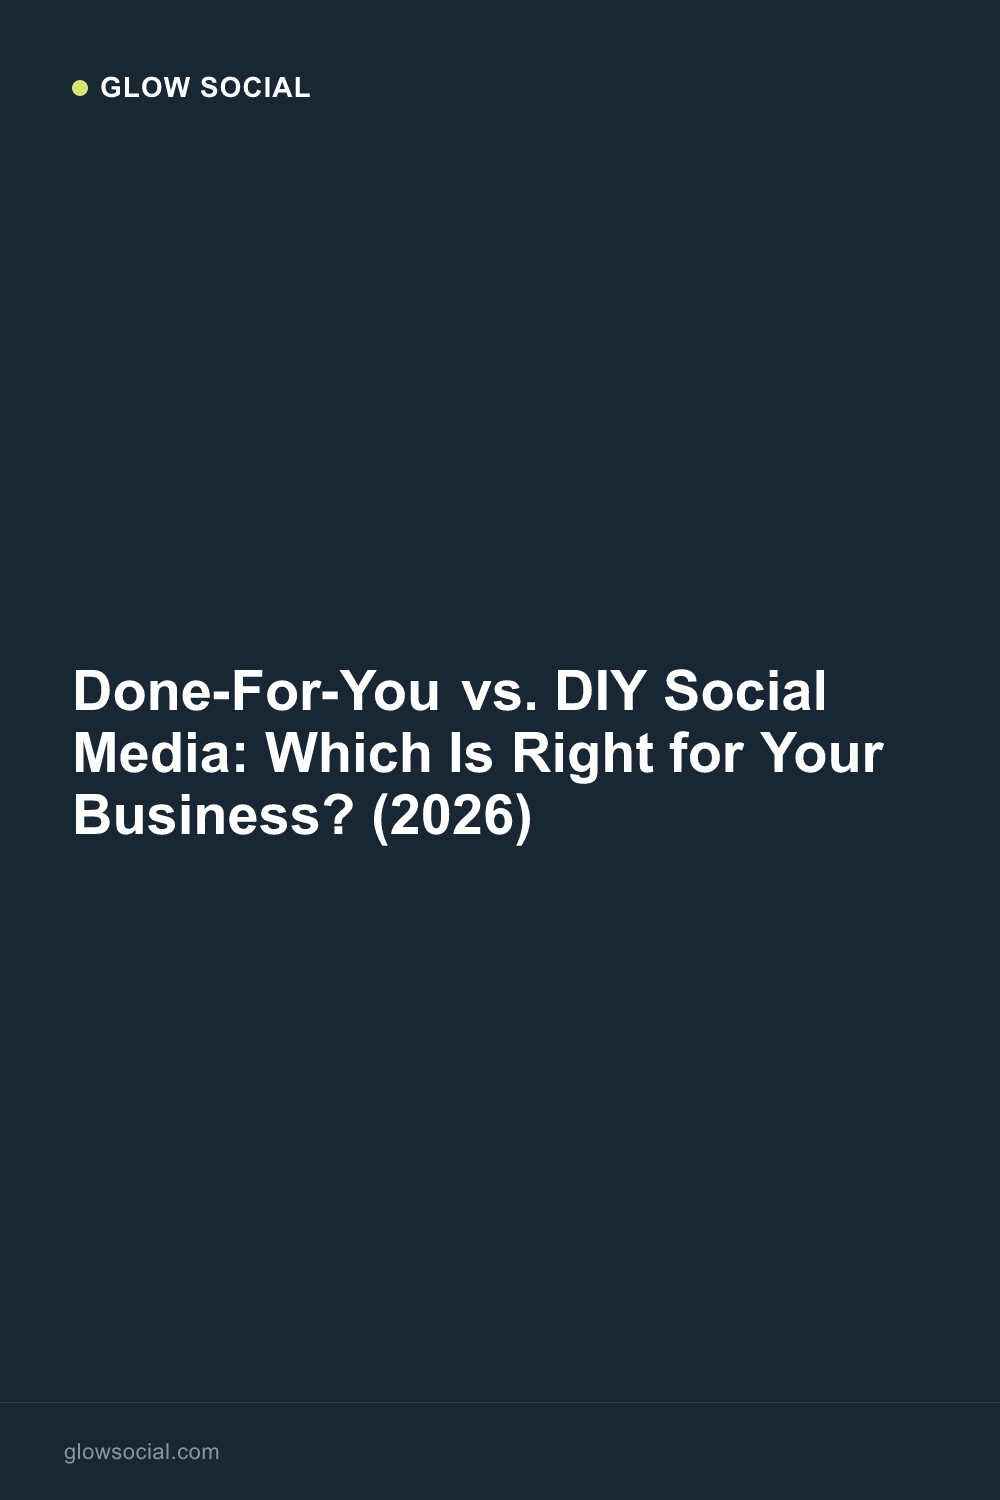
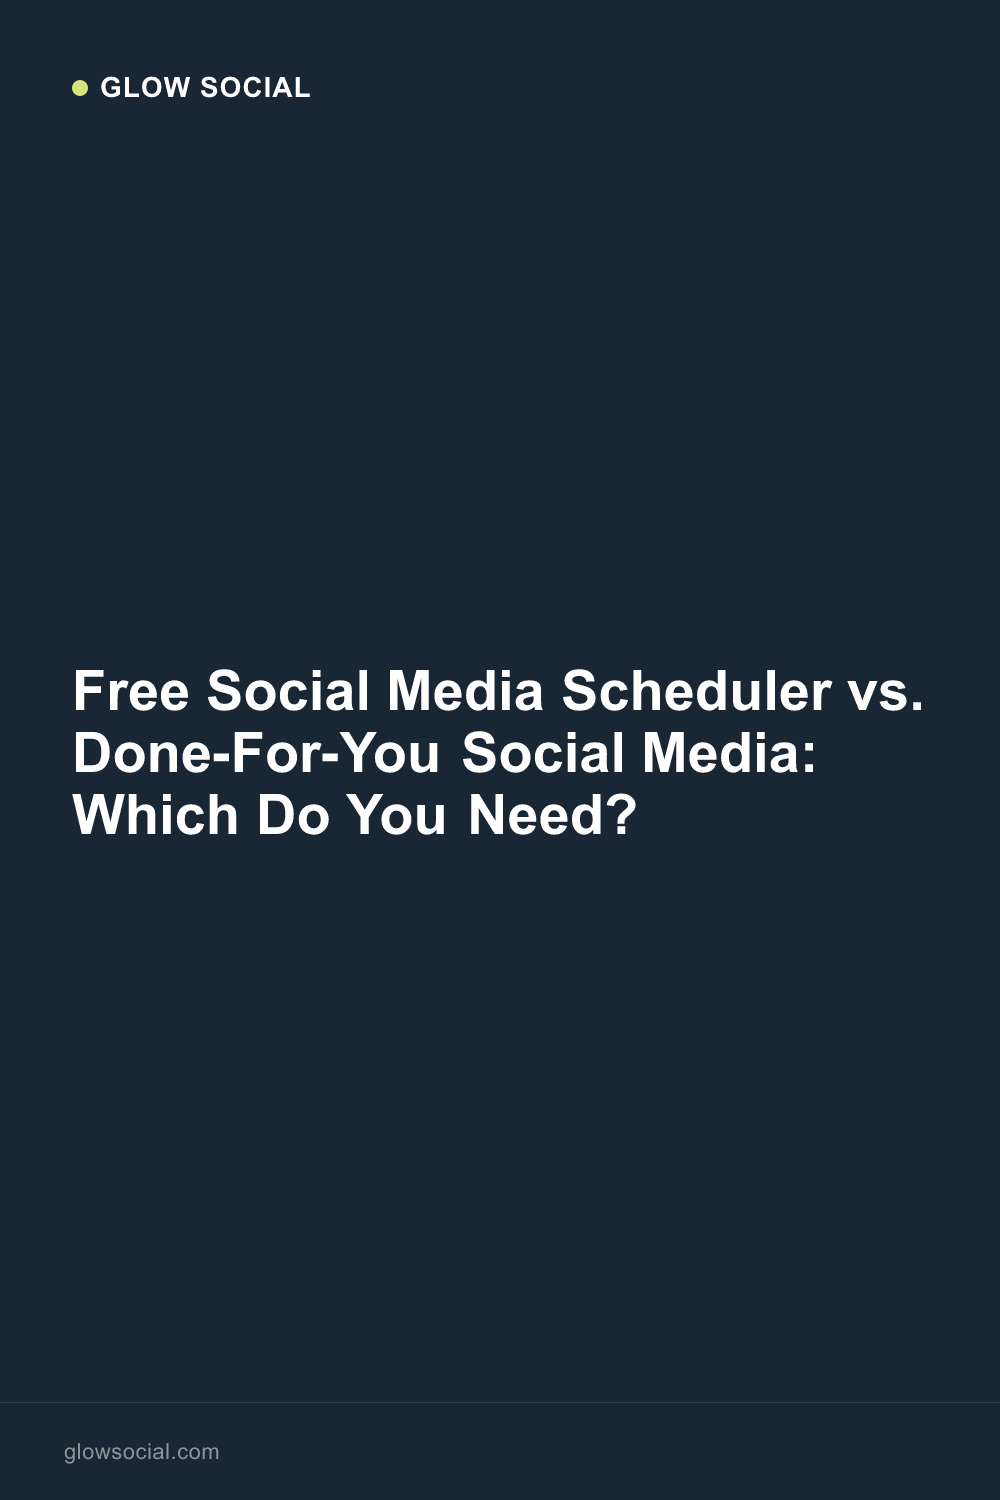
Strengthen free scheduler decision page

Changed region(s): [[0.062, 0.4293, 0.93, 0.5827]]

diff --git a/content/blog/done-for-you-vs-diy-social-media.md b/content/blog/done-for-you-vs-diy-social-media.md
@@ -1,92 +1,148 @@
 ---
-title: "Done-For-You vs. DIY Social Media: Which Is Right for Your Business? (2026)"
-description: "Done-for-you vs DIY social media compared: cost, time, and results. Find out which approach fits your business and budget."
+title: "Free Social Media Scheduler vs. Done-For-You Social Media: Which Do You Need?"
+description: "Free scheduler or done-for-you social media? Compare DIY tools like Buffer and Later with services that create and publish posts for you."
 slug: "done-for-you-vs-diy-social-media"
-date: "2026-01-29"
+date: "2026-05-13"
 faqs:
+  - q: "Should I use a free social media scheduler or a done-for-you service?"
+    a: "Use a free scheduler if you already have posts, images, captions, and a posting plan. Use done-for-you social media if your real problem is creating the content in the first place."
+  - q: "What does a free social media scheduler do?"
+    a: "A free scheduler helps you queue and publish posts you have already created. It does not decide what to post, write your captions, create graphics, or keep your business visible for you."
   - q: "What is done-for-you social media?"
-    a: "Done-for-you social media means a service or software handles content creation, graphic design, and publishing for you. You don't write posts, create images, or manage a content calendar. Glow Social offers done-for-you posting for $99/month."
-  - q: "Is DIY social media worth the time?"
-    a: "For business owners whose time is worth more than $10/hour, DIY social media is typically more expensive than it appears. After factoring in 5-10 hours/month for content creation with tools like Buffer and Canva, the true cost can exceed $300/month when accounting for your time."
-  - q: "How much does done-for-you social media cost?"
-    a: "Done-for-you social media ranges from $99/month for automated AI services like Glow Social to $300-500/month for a freelancer to $1,000-3,000/month or more for an agency."
+    a: "Done-for-you social media means a service handles content ideas, caption writing, graphic creation, scheduling, and publishing for you. Glow Social offers done-for-you posting for $99/month."
+  - q: "Why doesn't Glow Social offer a free plan?"
+    a: "Glow Social does not offer a free plan because the product is custom content output, not empty software access. The value starts when posts are created, designed, and prepared for publishing."
 ---
 
-The choice between DIY social media tools and done-for-you solutions comes down to one question: Do you want to do your own social media or have it handled? DIY tools like Buffer and Hootsuite cost less upfront but require 5-10 hours of your time each month. Done-for-you services handle everything for a flat monthly fee.
+Free social media schedulers and done-for-you social media services solve different problems.
 
-Here's the full comparison.
+A scheduler helps you publish posts you already made. A done-for-you service helps when the blank calendar is the problem.
+
+That distinction matters because a lot of business owners search for a "free social media tool" when what they actually mean is: "I do not have time to keep social media going."
+
+Here is how to tell which problem you have.
+
+## Direct Answer: Free Scheduler vs Done-For-You Social Media
+
+Use a **free social media scheduler** if you already have:
+
+- photos or videos ready
+- captions written
+- a content plan
+- time to batch posts every week or month
+- someone checking comments and messages
+
+Use **done-for-you social media** if you need:
+
+- post ideas generated for you
+- captions written in your business voice
+- graphics created for you
+- posts scheduled and published automatically
+- consistent visibility without managing another tool
+
+The honest version: free schedulers are great when content creation is already handled. They are frustrating when content creation is the bottleneck.
 
 ## Quick Comparison
 
 <table>
-<tr><th>Factor</th><th>DIY (Buffer, Hootsuite, Canva)</th><th>Done-For-You (Glow Social)</th></tr>
-<tr><td>Monthly cost</td><td>$0-50 in tools</td><td>$99</td></tr>
-<tr><td>Your time</td><td>5-10 hours/month</td><td>5 minutes setup</td></tr>
-<tr><td>True cost (time included)</td><td>$250-550/month</td><td>$99/month</td></tr>
-<tr><td>Content creation</td><td>You do it</td><td>Software does it</td></tr>
-<tr><td>Creative control</td><td>Complete</td><td>Limited (AI-generated)</td></tr>
-<tr><td>Consistency</td><td>Depends on you</td><td>Guaranteed</td></tr>
+<tr><th>Question</th><th>Free scheduler</th><th>Done-for-you social media</th></tr>
+<tr><td>Typical cost</td><td>$0-50/month</td><td>$99-500+/month</td></tr>
+<tr><td>Creates post ideas?</td><td>No</td><td>Yes</td></tr>
+<tr><td>Writes captions?</td><td>No</td><td>Yes</td></tr>
+<tr><td>Creates graphics?</td><td>No</td><td>Yes</td></tr>
+<tr><td>Publishes posts?</td><td>Yes, after you load them</td><td>Yes</td></tr>
+<tr><td>Your time</td><td>3-10 hours/month</td><td>Minutes/month</td></tr>
+<tr><td>Best for</td><td>People who already create content</td><td>Busy owners who need consistency handled</td></tr>
 </table>
 
-## The DIY Approach
+## What Free Social Media Schedulers Are Good At
 
-DIY social media means using tools to help you create and schedule your own content:
+Free schedulers are genuinely useful. They are not fake value.
 
-<ul>
-<li>Writing tools (ChatGPT, Jasper, Copy.ai)</li>
-<li>Design tools (Canva, Adobe Express)</li>
-<li>Scheduling tools (Buffer, Hootsuite, Later)</li>
-</ul>
+Tools like Buffer, Later, and Meta Business Suite help you:
 
-<strong>Pros:</strong> Full creative control, lower subscription cost, learn marketing skills.
+- queue posts in advance
+- publish to multiple platforms
+- avoid logging in every day
+- keep a simple calendar organized
+- batch content when you already have it
 
-<strong>Cons:</strong> Requires 5-10 hours/month, consistency depends entirely on you, multiple tools to manage.
+If you enjoy making social media content, start there. For pricing details, compare [Buffer's free plan limits](/blog/buffer-pricing-free-plan-limits-2026), [Later's free plan and trial](/blog/later-pricing-free-plan-2026), and [social media tools under $50/month](/blog/social-media-tools-under-50).
 
-## The Done-For-You Approach
+## What Free Schedulers Do Not Solve
 
-Done-for-you means someone or something handles everything:
+A scheduler does not solve the blank-page problem.
 
-<ul>
-<li>Automated software (Glow Social: $99/month)</li>
-<li>Freelance social media manager ($300-500/month)</li>
-<li>Agency ($1,000-3,000+/month)</li>
-</ul>
+You still have to:
 
-<strong>Pros:</strong> Zero time investment, guaranteed consistency, no skills required.
+- decide what to post
+- write the caption
+- find or create the image
+- format the post for each platform
+- remember to refill the queue
+- check whether the content matches your business
 
-<strong>Cons:</strong> Less creative control, costs more than free tools.
+That is why a "free" scheduler can still cost a business owner real money. If social media takes 5 hours per month and your time is worth $50/hour, the true cost is $250/month before you count any paid tools.
 
-## Choose DIY If
+## What Done-For-You Social Media Is Good At
 
-<ul>
-<li>You enjoy creating content</li>
-<li>You have 5-10 hours/month to spare</li>
-<li>Creative control is important to you</li>
-<li>You want to learn marketing skills</li>
-<li>Your time isn't worth $50+/hour</li>
-</ul>
+Done-for-you social media is for the business owner who does not want another dashboard.
 
-## Choose Done-For-You If
+Instead of giving you a calendar to fill, it handles the work that usually gets skipped:
 
-<ul>
-<li>You'd rather not think about social media</li>
-<li>You don't have hours for content creation</li>
-<li>Consistency matters more than custom creative</li>
-<li>You've tried DIY and it didn't stick</li>
-<li>Your time is more valuable than $10/hour</li>
-</ul>
+- content planning
+- caption writing
+- graphic creation
+- platform scheduling
+- publishing
+
+Glow Social sits in this category. It creates and publishes 12 custom posts per month for $99/month. That is why it does not have a free plan: the product is not empty software access. The product is the content output.
+
+## Why Glow Social Does Not Offer a Free Plan
+
+A free plan makes sense when the product is access to software. It makes less sense when the product creates custom work.
+
+For Glow Social, the expensive part starts immediately:
+
+- reading the business context
+- creating relevant post ideas
+- writing captions
+- creating graphics
+- preparing posts for publishing
+- supporting setup and account connections
+
+Giving away that work would not be a free trial of software. It would be giving away the core service.
+
+The better risk-free step is looking at examples first, then starting month-to-month if the fit is obvious.
+
+## How to Choose
+
+Choose a free scheduler if:
+
+- you already know what to post
+- you have photos and videos ready
+- you want creative control
+- you can commit a few hours each month
+- you are trying to keep costs at $0
+
+Choose done-for-you social media if:
+
+- your pages go quiet because you are busy
+- you do not enjoy creating content
+- you want a baseline presence without hiring
+- you would rather spend $99 than spend another evening writing captions
+- consistency matters more than perfect manual control
 
 ## Bottom Line
 
-DIY gives you control. Done-for-you gives you time. For most busy business owners, consistent posting beats perfect posting. Try Glow Social's done-for-you approach at <a href="https://glowsocial.com">glowsocial.com</a> for $99/month.
+If you need free, use a free scheduler. Buffer, Later, and Meta Business Suite all have a place.
 
-Compare also: [Buffer vs. Glow Social](/blog/buffer-vs-glow-social) · [AI Tools vs. Agencies](/blog/ai-tools-vs-agencies-cost) · [Social Media Manager vs. AI](/blog/social-media-manager-vs-ai)
+If you need social media handled, a free scheduler is probably not the thing you are looking for. You need content creation, design, and publishing bundled together.
 
-<hr>
+For a broader pricing breakdown, see [Affordable Social Media Management for Small Business](/blog/best-affordable-social-media-management-small-business) and [AffordableSocialMediaManagement.com](https://affordablesocialmediamanagement.com/). For tool-by-tool comparisons, start with [Buffer vs. Glow Social](/blog/buffer-vs-glow-social), [Glow Social vs. Later](/blog/glow-social-vs-later), and [AI tools vs. agency costs](/blog/ai-tools-vs-agencies-cost).
 
-<strong>About Glow Social:</strong> AI-powered software that automatically creates and publishes 12 custom posts per month to Facebook, Instagram, LinkedIn, and TikTok. $99/month, 5-minute setup. <a href="https://glowsocial.com">glowsocial.com</a>
+[See Glow Social examples ->](/preview)
 
+---
 
-### Want to see what Glow Social can do for your Accountant business?
-
-[**Get a free, no-login preview of 12 custom posts for your business here.**](/preview/accountant)
+**About Glow Social:** AI-powered software that automatically creates and publishes 12 custom posts per month to Facebook, Instagram, LinkedIn, TikTok, and Google Business Profile. $99/month, 5-minute setup, no contracts. [glowsocial.com](https://glowsocial.com)

diff --git a/content/blog/buffer-pricing-free-plan-limits-2026.md b/content/blog/buffer-pricing-free-plan-limits-2026.md
@@ -170,6 +170,8 @@ The clean comparison is:
 
 Glow Social costs $99/month. Before paying, you can look at the kind of content it creates for local businesses and decide whether done-for-you social media is the actual thing you were looking for.
 
+For the full decision framework, read [free social media scheduler vs. done-for-you social media](/blog/done-for-you-vs-diy-social-media).
+
 [See Glow Social examples ->](/preview)
 
 ## Sources Checked
@@ -178,6 +180,6 @@ Pricing and plan limits can change. For the current official details, check [Buf
 
 ---
 
-**Related guides:** [Later pricing and free plan](/blog/later-pricing-free-plan-2026) · [Later vs Buffer](/blog/later-vs-buffer-differences-comparison) · [Best tools under $50/month](/blog/social-media-tools-under-50) · [Affordable social media management](/blog/best-affordable-social-media-management-small-business) · [Buffer vs Glow Social](/blog/buffer-vs-glow-social)
+**Related guides:** [Free scheduler vs. done-for-you social media](/blog/done-for-you-vs-diy-social-media) · [Later pricing and free plan](/blog/later-pricing-free-plan-2026) · [Later vs Buffer](/blog/later-vs-buffer-differences-comparison) · [Best tools under $50/month](/blog/social-media-tools-under-50) · [Affordable social media management](/blog/best-affordable-social-media-management-small-business) · [Buffer vs Glow Social](/blog/buffer-vs-glow-social)
 
 **About Glow Social:** AI-powered software that automatically creates and publishes 12 custom social media posts per month for local businesses. $99/month, 5-minute setup, no contracts. [glowsocial.com](https://glowsocial.com)

diff --git a/content/blog/later-pricing-free-plan-2026.md b/content/blog/later-pricing-free-plan-2026.md
@@ -203,6 +203,8 @@ The clean comparison is:
 
 Glow Social costs $99/month. Before paying, you can look at the kind of content it creates for local businesses and decide whether done-for-you social media is the actual thing you were looking for.
 
+For the full decision framework, read [free social media scheduler vs. done-for-you social media](/blog/done-for-you-vs-diy-social-media).
+
 [See Glow Social examples ->](/preview)
 
 ## Sources Checked
@@ -211,6 +213,6 @@ Pricing and plan limits can change. For the current official details, check [Lat
 
 ---
 
-**Related guides:** [Buffer pricing and free plan limits](/blog/buffer-pricing-free-plan-limits-2026) · [Later vs Buffer](/blog/later-vs-buffer-differences-comparison) · [Glow Social vs Later](/blog/glow-social-vs-later) · [Best tools under $50/month](/blog/social-media-tools-under-50) · [Affordable social media management](/blog/best-affordable-social-media-management-small-business)
+**Related guides:** [Free scheduler vs. done-for-you social media](/blog/done-for-you-vs-diy-social-media) · [Buffer pricing and free plan limits](/blog/buffer-pricing-free-plan-limits-2026) · [Later vs Buffer](/blog/later-vs-buffer-differences-comparison) · [Glow Social vs Later](/blog/glow-social-vs-later) · [Best tools under $50/month](/blog/social-media-tools-under-50) · [Affordable social media management](/blog/best-affordable-social-media-management-small-business)
 
 **About Glow Social:** AI-powered software that automatically creates and publishes 12 custom social media posts per month for local businesses. $99/month, 5-minute setup, no contracts. [glowsocial.com](https://glowsocial.com)

diff --git a/content/blog/best-affordable-social-media-management-small-business.md b/content/blog/best-affordable-social-media-management-small-business.md
@@ -154,6 +154,6 @@ If you want to start posting consistently without spending hours you don't have:
 
 ---
 
-**Related guides:** [How much does a social media manager cost?](/blog/freelance-social-media-manager-charge-cost) · [How much time does social media take?](/blog/average-time-social-media-marketing) · [Buffer pricing and free plan limits](/blog/buffer-pricing-free-plan-limits-2026) · [Later pricing and free plan](/blog/later-pricing-free-plan-2026) · [Later vs Buffer comparison](/blog/later-vs-buffer-differences-comparison) · [Best tools under $50/month](/blog/social-media-tools-under-50)
+**Related guides:** [Free scheduler vs. done-for-you social media](/blog/done-for-you-vs-diy-social-media) · [How much does a social media manager cost?](/blog/freelance-social-media-manager-charge-cost) · [How much time does social media take?](/blog/average-time-social-media-marketing) · [Buffer pricing and free plan limits](/blog/buffer-pricing-free-plan-limits-2026) · [Later pricing and free plan](/blog/later-pricing-free-plan-2026) · [Later vs Buffer comparison](/blog/later-vs-buffer-differences-comparison) · [Best tools under $50/month](/blog/social-media-tools-under-50)
 
 **About Glow Social:** AI-powered software that automatically creates and publishes 12 custom posts per month to Facebook, Instagram, LinkedIn, TikTok, and Google Business Profile. $99/month, 5-minute setup, no contracts. [glowsocial.com](https://glowsocial.com)